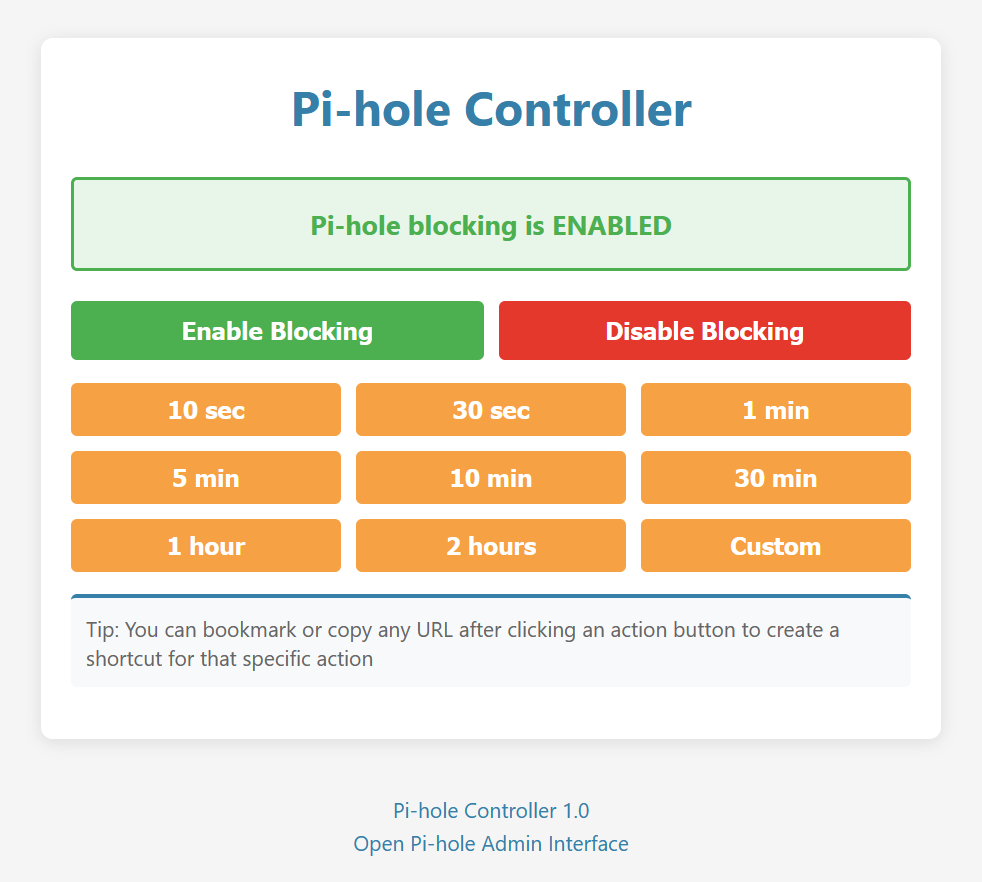
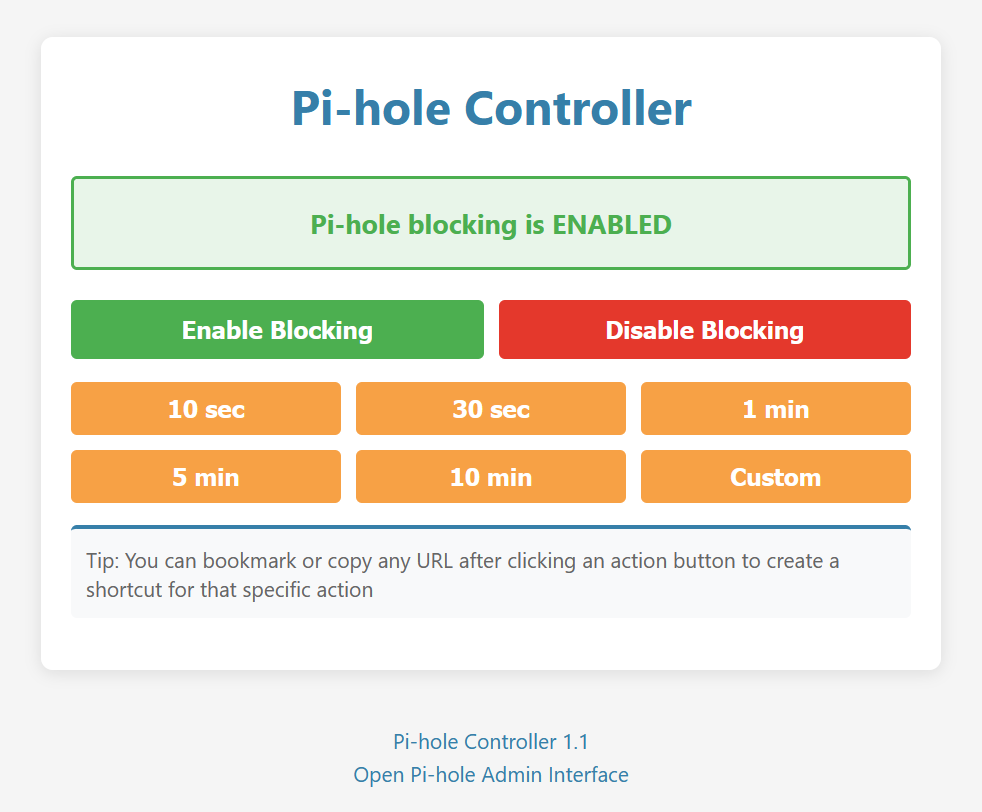
Updates README.md

Changed region(s): [[0.0611, 0.1847, 0.947, 0.7697], [0.3055, 0.0924, 0.7026, 0.1539], [0.3666, 0.8929, 0.6415, 0.9852]]

diff --git a/README.md b/README.md
@@ -39,7 +39,7 @@ curl -o controller.html https://raw.githubusercontent.com/mikeswanson/PiHoleCont
 
 ## Installing on Your Pi-hole
 
-Follow these steps to install the controller on your Pi-hole:
+Follow these steps to install or update the controller on your Pi-hole:
 
 1. Transfer the `controller.html` file to your Pi-hole:
 
@@ -86,3 +86,37 @@ Now, you can access the controller by navigating to `https://pi.hole/controller.
 
 4. **Create Shortcuts:**
    After clicking an action, copy the URL from your browser to bookmark it as a shortcut for that specific action.
+
+## Customization
+
+For family-friendly setups or specialized use cases, you can customize the controller interface using URL parameters:
+
+### Parameters
+
+- **title=Custom+Title**: Sets a custom title for the page (default is "Pi-hole Controller")
+- **showButtons=false**: Hides the main Enable/Disable blocking buttons
+- **showTips=false**: Hides tips throughout the interface (like password generation instructions and bookmark hints)
+- **showFooter=false**: Hides the footer with version info and admin links
+- **presets=item1,item2,...**: Define custom preset durations
+
+### Custom Presets Format
+
+Custom presets use the format `Label:Value` separated by commas:
+
+- `Label` is the text shown on the button (use '+' for spaces)
+- `Value` is the duration in seconds, or append `m` for minutes, or use `custom`
+
+Examples:
+
+- `presets=Quick:30,5+Minutes:300,Hour:3600`
+- `presets=Quick:30,Lunch:45m,Custom:custom`
+
+### Example URL
+
+Simple URL with minimal interface for family use (fill-in `your-password`):
+
+```bash
+https://pi.hole/controller.html?url=https://pi.hole&pwd=your-password&title=Internet+Controls&showButtons=false&showTips=false&showFooter=false&presets=10+seconds:10,30+seconds:30,1+minute:1m
+```
+
+![Screenshot of Customized Pi-hole Controller](images/customized.png)
